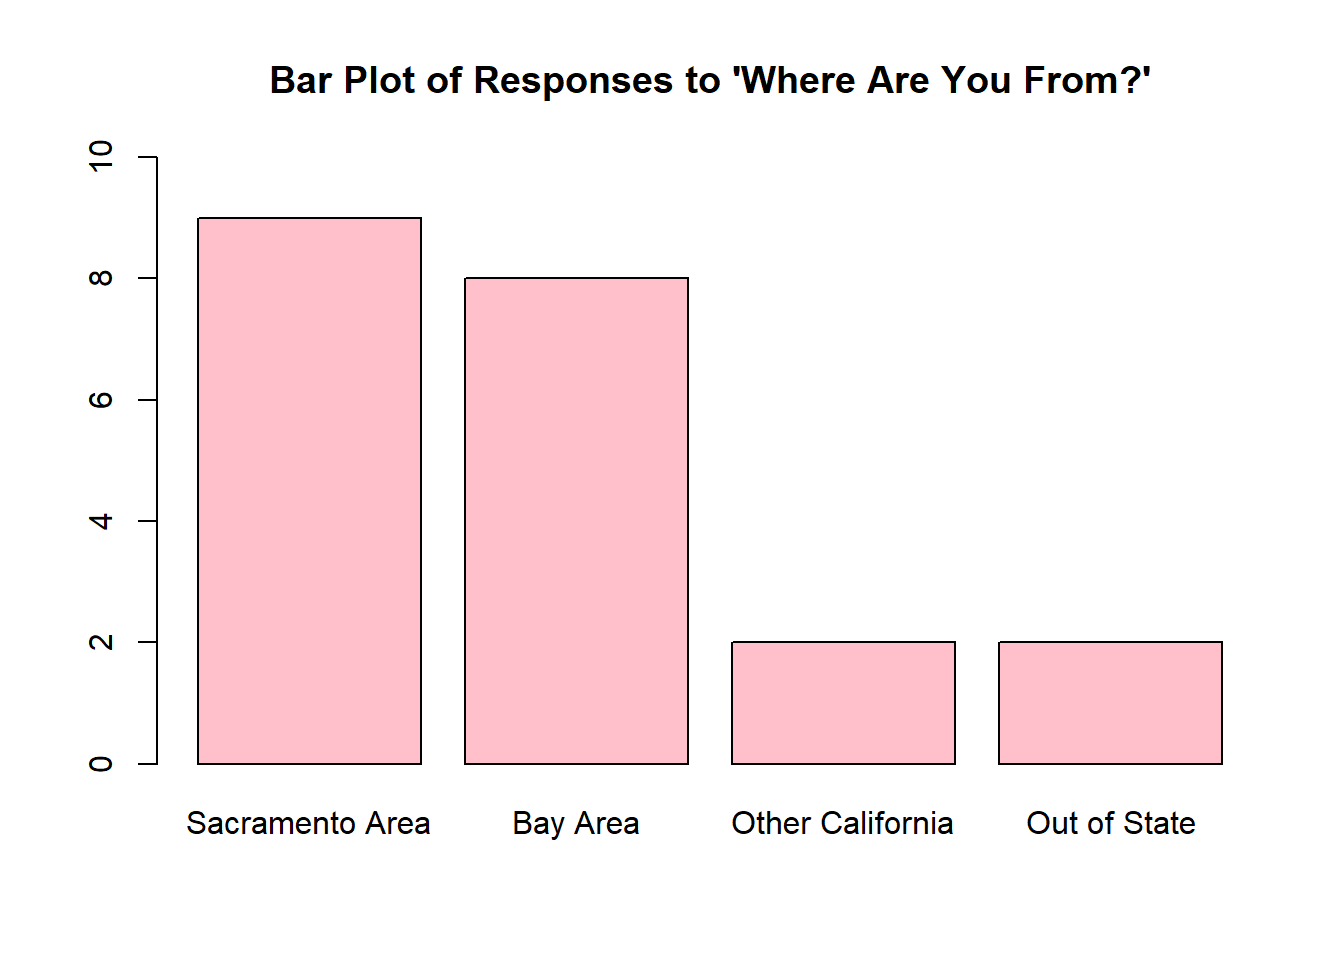
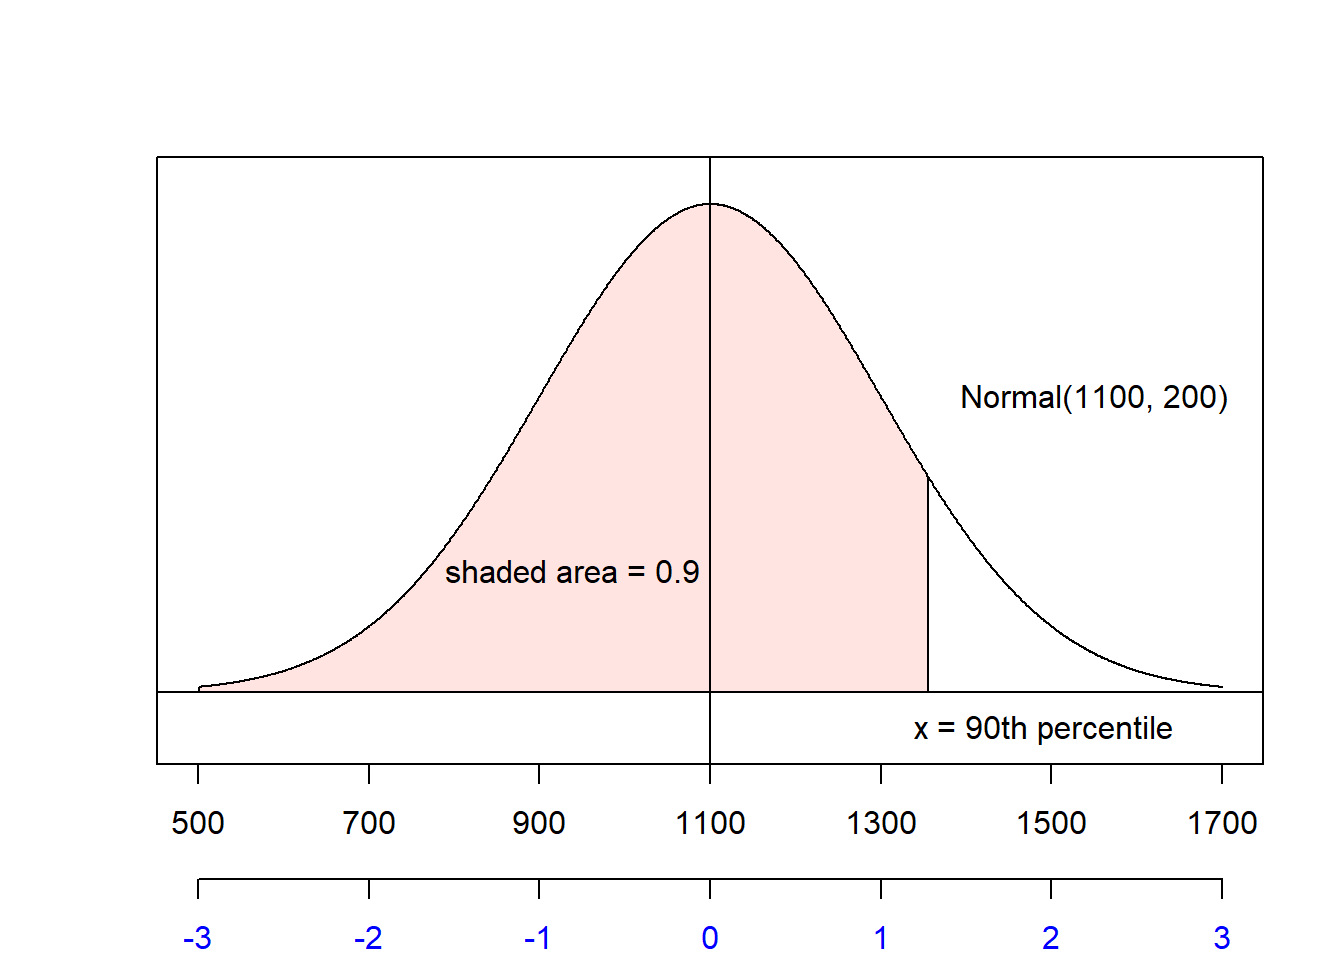
Update Section 5.2

diff --git a/IntroStats/random-variables.html b/IntroStats/random-variables.html
@@ -674,20 +674,20 @@ For a randomly selected household, what is the probability they have at least 2 
 </div>
 <div id="the-binomial-distribution" class="section level2 hasAnchor" number="5.2">
 <h2><span class="header-section-number">5.2</span> The Binomial Distribution<a href="random-variables.html#the-binomial-distribution" class="anchor-section" aria-label="Anchor link to header"></a></h2>
-<p>The binomial distribution is used to describe the number of successes in some fixed number of trials (or some set sample size).
-&gt; <strong>Example</strong>: Suppose we will roll three dice: a green (<span class="math inline">\(G\)</span>), a blue (<span class="math inline">\(B\)</span>), and a red (<span class="math inline">\(R\)</span>). What is the probability that exactly one of them will result in a 1?
-&gt;
-&gt; Let’s start by considering one specific scenario where exactly one die results in a 1:
-&gt; <span class="math display">\[\begin{aligned}
+<p>The binomial distribution is used to describe the number of successes in some fixed number of trials (or some set sample size).</p>
+<blockquote>
+<p><strong>Example</strong>: Suppose we will roll three dice: a green (<span class="math inline">\(G\)</span>), a blue (<span class="math inline">\(B\)</span>), and a red (<span class="math inline">\(R\)</span>). What is the probability that exactly one of them will result in a 1?</p>
+<p>Let’s start by considering one specific scenario where exactly one die results in a 1:
+<span class="math display">\[\begin{aligned}
 P(G = 1 \text{ and } B \ne 1 \text{ and } R \ne 1 ) &amp;= P(G = 1)P(B &gt; 1)P(R &gt; 1) \\
 &amp;= \frac{1}{6} \times \frac{5}{6} \times \frac{5}{6} \\
 &amp;= (0.1667)(0.8333)(0.8333) \\
 &amp;= (0.1667)^1(0.8333)^2 \\
 &amp;= 0.1157
 \end{aligned} \]</span>
-&gt; Note that “not 1” in this scenario is the same as “greater than 1” and includes the values <span class="math inline">\(2\)</span>, <span class="math inline">\(3\)</span>, <span class="math inline">\(4\)</span>, <span class="math inline">\(5\)</span>, and <span class="math inline">\(6\)</span>, which is how we come up with those individual probabilities. Also notice that our first step was to use the multiplication rule for independent events!
-&gt;
-&gt; But we also could have considered the scenarios where the Blue or Red die was the single die to roll a 1. In each case, the probability is the same: <span class="math inline">\((0.1667)^1(0.8333)^2\)</span> so we need to multiply this probability by 3: <span class="math display">\[P(\text{exactly one four-sided die rolls a 1}) = 3\times(0.1667)^1(0.8333)^2 = 0.3472\]</span></p>
+Note that “not 1” in this scenario is the same as “greater than 1” and includes the values <span class="math inline">\(2\)</span>, <span class="math inline">\(3\)</span>, <span class="math inline">\(4\)</span>, <span class="math inline">\(5\)</span>, and <span class="math inline">\(6\)</span>, which is how we come up with those individual probabilities. Also notice that our first step was to use the multiplication rule for independent events!</p>
+<p>But we also could have considered the scenarios where the Blue or Red die was the single die to roll a 1. In each case, the probability is the same: <span class="math inline">\((0.1667)^1(0.8333)^2\)</span> so we need to multiply this probability by 3: <span class="math display">\[P(\text{exactly one four-sided die rolls a 1}) = 3\times(0.1667)^1(0.8333)^2 = 0.3472\]</span></p>
+</blockquote>
 <p>Next, think back to replication in an experiment. Each replication is what we call a <strong>trial</strong>. We will consider a setting where each trial has two possible outcomes.</p>
 <blockquote>
 <p><strong>Example</strong>: Suppose you want to know if a coin is fair (both sides equally likely). You might flip the coin 100 times (thus running 100 trials). Each trial is a flip of the coin with two possible outcomes: heads or tails.</p>
@@ -820,6 +820,32 @@ P(X \le 3) =&amp; P(X = 3 \text{ or } X=2 \text{ or } X=1 \text{ or } X=0) \\
 <div id="section-exercises-14" class="section level3 unnumbered hasAnchor">
 <h3>Section Exercises<a href="random-variables.html#section-exercises-14" class="anchor-section" aria-label="Anchor link to header"></a></h3>
 <ol>
+<li>
+Calculate the following binomial coefficients:
+</li>
+<ol style="list-style-type: lower-alpha;">
+<li>
+<span class="math inline">\(\binom{5}{2}\)</span>
+</li>
+<li>
+<span class="math inline">\(\binom{7}{5}\)</span>
+</li>
+<li>
+<span class="math inline">\(\binom{4}{4}\)</span>
+</li>
+<li>
+<span class="math inline">\(\binom{10}{0}\)</span>
+</li>
+<li>
+<span class="math inline">\(\binom{20}{4}\)</span>
+</li>
+</ol>
+<li>
+Find the number of ways to select a group of 3 students from a class of 15 students.
+</li>
+<li>
+Find the number of possible 5-card poker hands in a 52-card deck.
+</li>
 <li>
 Suppose you are going to roll a 6-sided die seven times. What is the probability of getting exactly three <span class="math inline">\(6\)</span>s?
 </li>